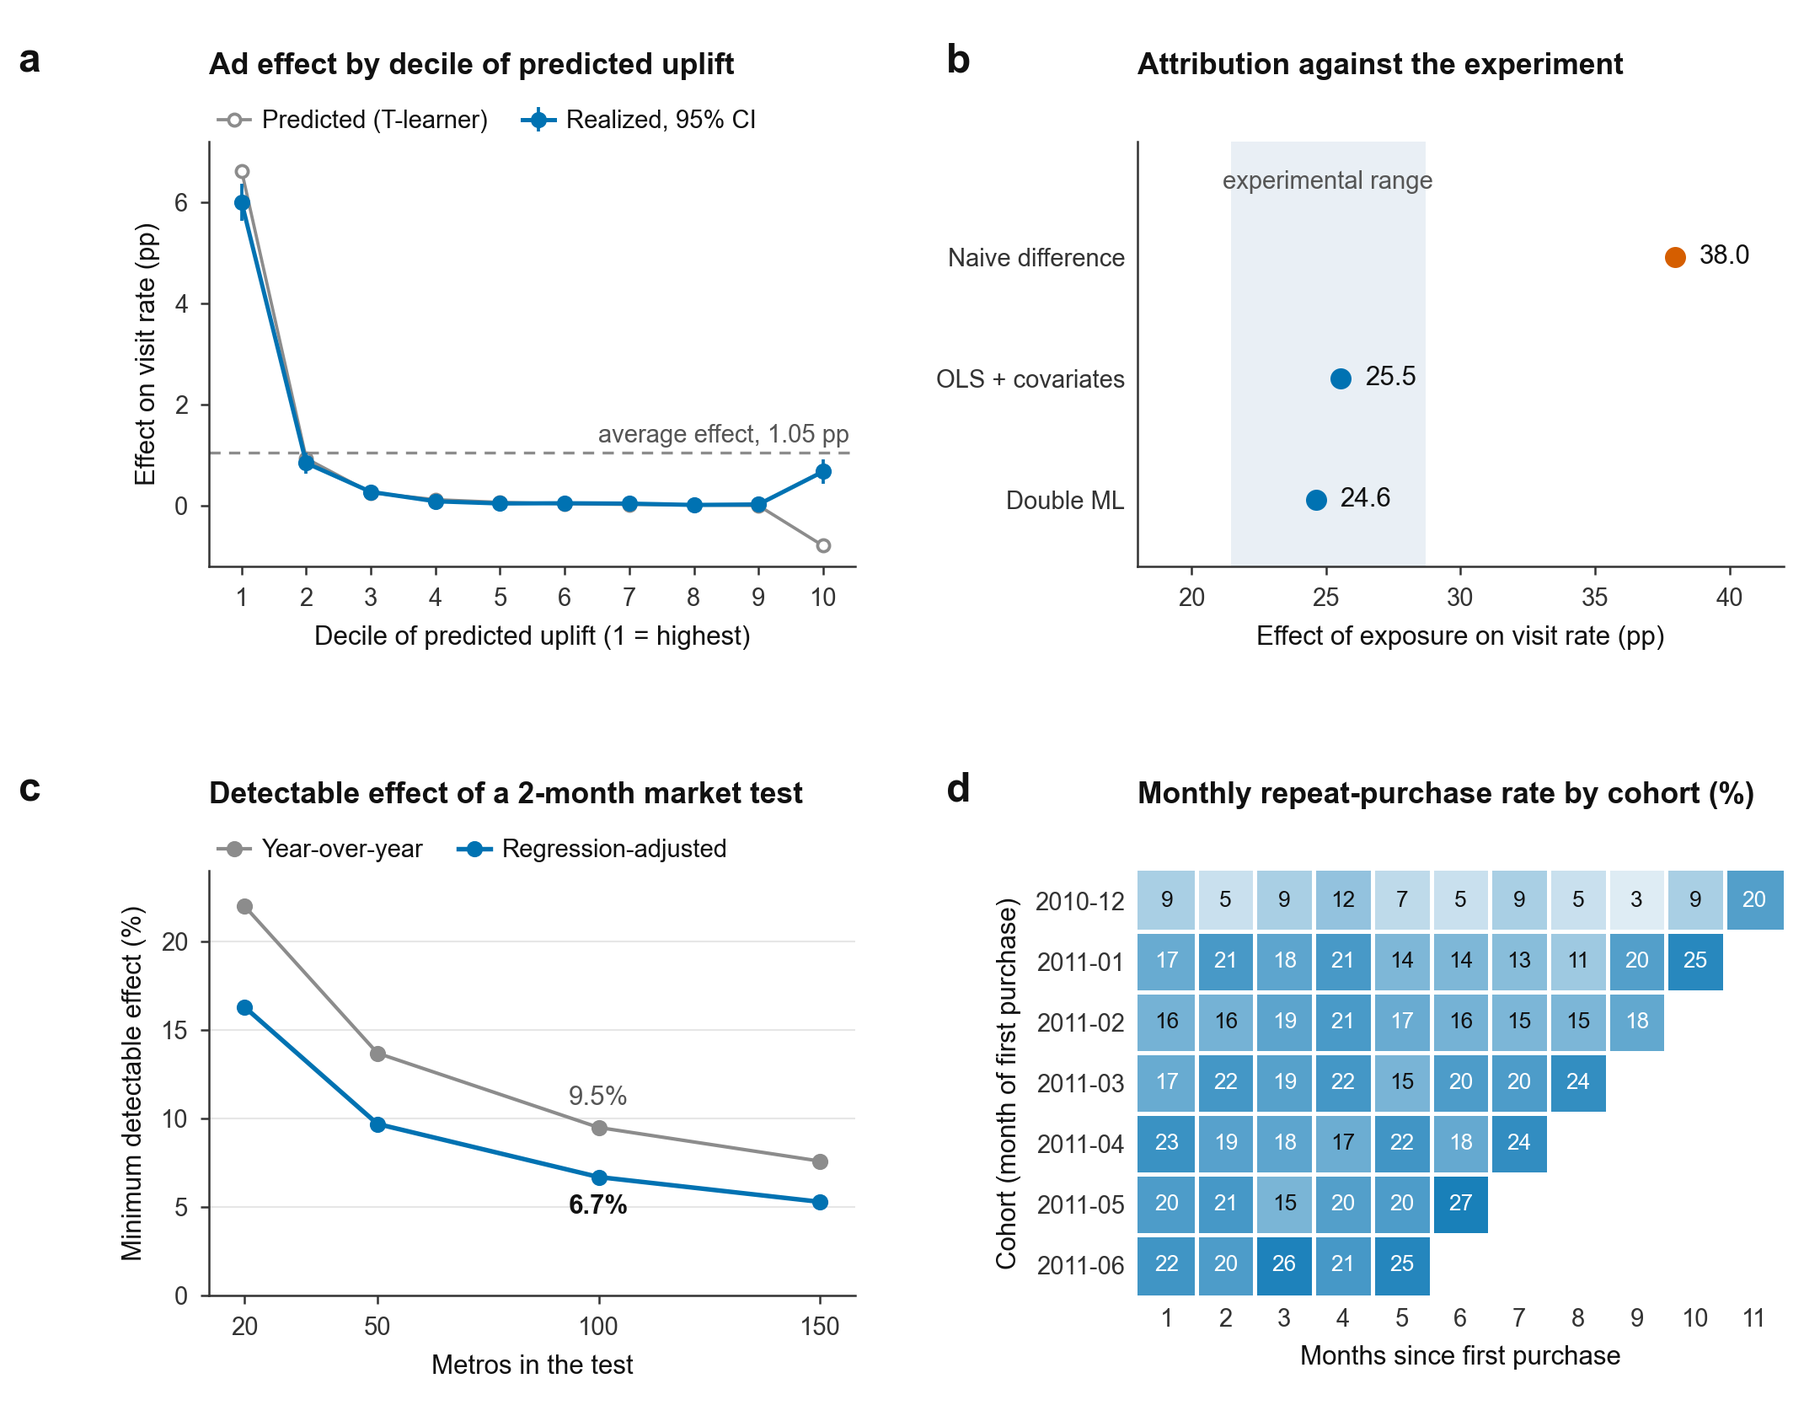
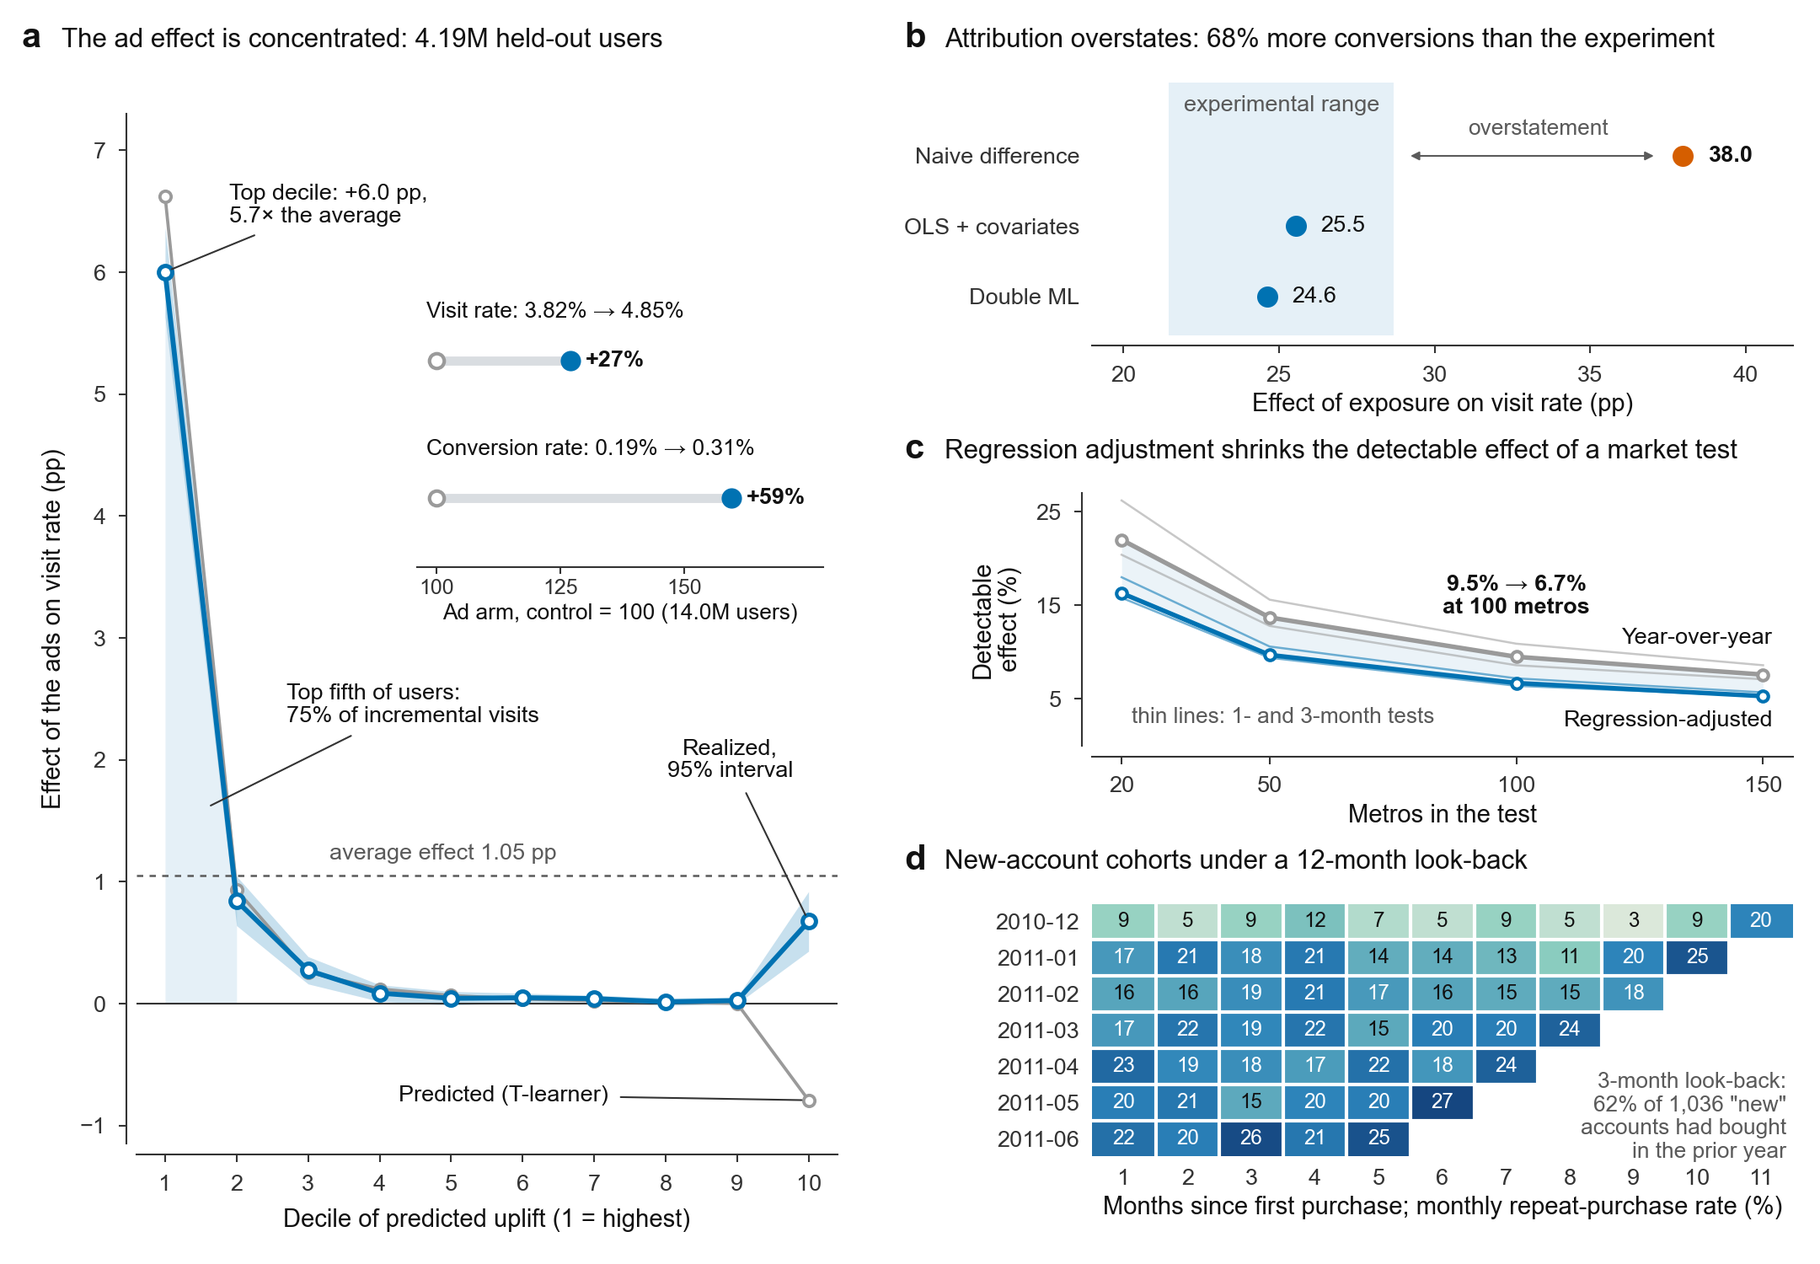
Figure 1: lead with the main result and annotate directly

diff --git a/figures/make_figure1.py b/figures/make_figure1.py
@@ -1,4 +1,4 @@
-"""Figure 1 of the README: one panel per study, drawn from the committed result files.
+"""Figure 1 of the README: the experiment readout with three supporting panels, drawn from the result files.
 
 Usage: python figures/make_figure1.py   (writes figures/figure1.png)
 """
@@ -13,11 +13,11 @@ import matplotlib.ticker
 from matplotlib.colors import LinearSegmentedColormap
 
 ROOT = Path(__file__).resolve().parents[1]
-T = dict(bg="#ffffff", ink="#111111", ink2="#555555", axis="#333333", grid="#e6e6e6", band="#e9eff5",
-         blue="#0072B2", red="#D55E00", green="#009E73", grey="#8c8c8c")
-FIGSIZE = (7.2, 5.6)
-X0, W, H = (0.115, 0.625), 0.355, 0.30          # two equal columns
-Y0 = (0.60, 0.085)                              # two equal rows
+INK, INK2, AXIS = "#111111", "#5a5a5a", "#333333"
+BLUE, RED, GREEN, GREY, SKY = "#0072B2", "#D55E00", "#009E73", "#9a9a9a", "#56B4E9"
+SEQ = LinearSegmentedColormap.from_list("seq", ["#f6f1e4", "#8fd0c0", "#2b83ba", "#0b2a66"])
+HERO = [0.075, 0.095, 0.385, 0.815]             # large left panel
+X0, W, H, ROWS = 0.60, 0.385, 0.20, (0.735, 0.41, 0.085)   # three stacked panels on the right
 
 
 def rows(path):
@@ -25,119 +25,152 @@ def rows(path):
         return list(csv.DictReader(f))
 
 
-def style(t):
+def style():
     plt.rcParams.update({
-        "font.family": ["Arial", "Helvetica Neue", "DejaVu Sans"], "font.size": 7.5, "axes.labelsize": 7.5,
-        "xtick.labelsize": 7, "ytick.labelsize": 7, "legend.fontsize": 7,
-        "figure.facecolor": t["bg"], "axes.facecolor": t["bg"], "savefig.facecolor": t["bg"],
-        "text.color": t["ink"], "axes.labelcolor": t["ink"], "axes.edgecolor": t["axis"],
-        "xtick.color": t["axis"], "ytick.color": t["axis"], "axes.linewidth": 0.6,
-        "xtick.major.width": 0.6, "ytick.major.width": 0.6, "xtick.major.size": 2.5, "ytick.major.size": 2.5,
-        "axes.spines.top": False, "axes.spines.right": False, "lines.linewidth": 1.2, "legend.frameon": False})
+        "font.family": ["Arial", "Helvetica Neue", "DejaVu Sans"], "font.size": 7, "axes.labelsize": 7,
+        "xtick.labelsize": 6.5, "ytick.labelsize": 6.5, "text.color": INK, "axes.labelcolor": INK,
+        "axes.edgecolor": AXIS, "xtick.color": AXIS, "ytick.color": AXIS, "axes.linewidth": 0.5,
+        "xtick.major.width": 0.5, "ytick.major.width": 0.5, "xtick.major.size": 2.2, "ytick.major.size": 2.2,
+        "xtick.minor.size": 1.2, "ytick.minor.size": 1.2, "xtick.minor.width": 0.4, "ytick.minor.width": 0.4,
+        "axes.spines.top": False, "axes.spines.right": False, "figure.facecolor": "white",
+        "savefig.facecolor": "white"})
 
 
-def grid(fig):
-    """Four axes of equal size on a 2 x 2 grid."""
-    return [fig.add_axes([x, y, W, H]) for y in Y0 for x in X0]
+def detach(ax):
+    """Axes drawn slightly away from the data, as in journal figures."""
+    for side in ("left", "bottom"):
+        ax.spines[side].set_position(("outward", 3))
 
 
-def panel(fig, ax, letter, title, legend_rows=1):
-    """Panel letter and bold title above the legend strip; the strip holds `legend_rows` rows in this figure row."""
+def letter(fig, ax, s, title, x=0.497):
     box = ax.get_position()
-    y = box.y1 + (7 + 10.5 * legend_rows) / 72 / fig.get_figheight()
-    fig.text(box.x0 - 0.105, y, letter, fontsize=11.5, fontweight="bold", va="bottom")
-    fig.text(box.x0, y, title, fontsize=8.5, fontweight="bold", va="bottom")
+    fig.text(x, box.y1 + 0.022, s, fontsize=10, fontweight="bold", va="bottom")
+    fig.text(x + 0.022, box.y1 + 0.0235, title, fontsize=7.5, va="bottom")
 
 
-def legend(ax, ncol, handles=None, labels=None):
-    """Legend in a strip between the title and the axes, clear of the data."""
-    args = (handles, labels) if handles is not None else ()
-    return ax.legend(*args, loc="lower left", bbox_to_anchor=(0, 1.0), ncol=ncol, borderaxespad=0.35, borderpad=0,
-                     handlelength=1.3, handletextpad=0.5, columnspacing=1.4, labelspacing=0.35)
+def leader(ax, xy, xytext, text, **kw):
+    ax.annotate(text, xy=xy, xytext=xytext, fontsize=6.5, va="center",
+                arrowprops=dict(arrowstyle="-", lw=0.5, color=AXIS, shrinkA=1.5, shrinkB=2), **kw)
 
 
 def load(rel):
     return json.loads((ROOT / rel).read_text())
 
 
-def draw(t):
-    fig = plt.figure(figsize=FIGSIZE, dpi=300)
-    a, b, c, d = grid(fig)
+def draw():
+    fig = plt.figure(figsize=(7.2, 5.0), dpi=300)
 
-    # a: realized uplift by decile of predicted uplift, held-out users
+    # ---- a: realized ad effect by decile of predicted uplift, held-out users
     tg = load("01_ad_incrementality/out/criteo/c_targeting.json")
+    inc = load("01_ad_incrementality/out/criteo/a_incrementality.json")
     cal, itt = tg["calibration_selected"], tg["test_overall_itt"]
+    a = fig.add_axes(HERO)
     x = [r["decile"] for r in cal]
-    a.axhline(100 * itt["est"], color=t["grey"], lw=0.8, ls=(0, (4, 3)))
-    a.text(10.4, 100 * itt["est"] + 0.2, f'average effect, {100 * itt["est"]:.2f} pp', ha="right", color=t["ink2"], fontsize=7)
-    a.errorbar(x, [100 * r["realized"] for r in cal], yerr=[196 * r["se"] for r in cal], color=t["blue"], lw=1.2,
-               marker="o", ms=3.6, capsize=0, elinewidth=0.9, label="Realized, 95% CI", zorder=3)
-    a.plot(x, [100 * r["predicted"] for r in cal], color=t["grey"], lw=0.9, marker="o", ms=3.4, mfc=t["bg"],
-           mew=0.9, label="Predicted (T-learner)", zorder=2)
-    a.set_xticks(x); a.set_xlim(0.5, 10.5); a.set_ylim(-1.2, 7.2)
-    a.set_xlabel("Decile of predicted uplift (1 = highest)"); a.set_ylabel("Effect on visit rate (pp)")
-    legend(a, 2)
-    panel(fig, a, "a", "Ad effect by decile of predicted uplift")
+    y = [100 * r["realized"] for r in cal]
+    se = [196 * r["se"] for r in cal]
+    a.axhline(0, color=AXIS, lw=0.5)
+    a.fill_between(x[:2], [0, 0], y[:2], color=BLUE, alpha=0.10, lw=0)
+    a.fill_between(x, [v - s for v, s in zip(y, se)], [v + s for v, s in zip(y, se)], color=BLUE, alpha=0.22, lw=0)
+    a.plot(x, [100 * r["predicted"] for r in cal], color=GREY, lw=0.9, marker="o", ms=3.2, mfc="white", mew=0.9)
+    a.plot(x, y, color=BLUE, lw=1.4, marker="o", ms=3.8, mfc="white", mew=1.2)
+    avg = 100 * itt["est"]
+    a.axhline(avg, color=INK2, lw=0.6, ls=(0, (3, 3)))
+    a.text(3.3, avg + 0.13, f"average effect {avg:.2f} pp", ha="left", fontsize=6.5, color=INK2)
+    leader(a, (1, y[0]), (1.9, y[0] + 0.55), f"Top decile: +{y[0]:.1f} pp,\n{y[0] / avg:.1f}× the average", linespacing=1.15)
+    leader(a, (1.55, 1.6), (2.7, 2.45),
+           f'Top fifth of users:\n{100 * tg["test"]["t_learner"]["share_incremental_top20"]:.0f}% of incremental visits',
+           linespacing=1.15)
+    leader(a, (10, 100 * cal[-1]["predicted"]), (7.2, -0.75), "Predicted (T-learner)", ha="right")
+    leader(a, (10, y[-1]), (8.9, 2.0), "Realized,\n95% interval", linespacing=1.15, ha="center")
+    a.set_xticks(x); a.set_xlim(0.6, 10.4); a.set_ylim(-1.15, 7.3)
+    a.set_xlabel("Decile of predicted uplift (1 = highest)"); a.set_ylabel("Effect of the ads on visit rate (pp)")
+    detach(a)
+    fig.text(0.012, 0.957, "a", fontsize=10, fontweight="bold", va="bottom")
+    fig.text(0.034, 0.9585, f'The ad effect is concentrated: {(itt["n1"] + itt["n0"]) / 1e6:.2f}M held-out users',
+             fontsize=7.5, va="bottom")
 
-    # b: per-exposed-user effect, observational estimators against the experimental range
-    at = load("02_attribution_metric_validation/out/attribution_vs_experiment.json")["per_exposed_user_visit_effect"]
-    lo, hi = 100 * at["cace_adjusted_study_01"], 100 * at["cace_unadjusted"]
-    b.axvspan(lo, hi, color=t["band"], lw=0)
-    b.text((lo + hi) / 2, 2.62, "experimental range", ha="center", va="center", color=t["ink2"], fontsize=7)
-    est = [("Naive difference", at["naive"], at["naive_se"], t["red"]),
-           ("OLS + covariates", at["ols_adjusted"], at["ols_se"], t["blue"]),
-           ("Double ML", at["dml"], at["dml_se"], t["blue"])]
-    for i, (name, v, se, col) in enumerate(est):
-        b.errorbar(100 * v, 2 - i, xerr=196 * se, color=col, marker="o", ms=5, capsize=0, elinewidth=1.0)
-        b.text(100 * v + 0.9, 2 - i, f"{100 * v:.1f}", va="center")
-    b.set_yticks([2, 1, 0], [e[0] for e in est]); b.set_ylim(-0.55, 2.95); b.set_xlim(18, 42)
-    b.tick_params(axis="y", length=0)
-    b.set_xlabel("Effect of exposure on visit rate (pp)")
-    panel(fig, b, "b", "Attribution against the experiment")
+    # inset: the experiment readout for all users, ad arm against control (control = 100)
+    ins = a.inset_axes([0.40, 0.56, 0.58, 0.30])
+    for i, (name, key) in enumerate((("Conversion rate", "conversion"), ("Visit rate", "visit"))):
+        c0, est = inc[key]["itt"]["control_mean"], inc[key]["itt"]["est"]
+        idx = 100 * (c0 + est) / c0
+        ins.plot([100, idx], [i, i], color="#d9dde1", lw=2.6, solid_capstyle="round", zorder=1)
+        ins.plot(100, i, marker="o", ms=4.2, mfc="white", mec=GREY, mew=1.0, zorder=2)
+        ins.plot(idx, i, marker="o", ms=4.8, color=BLUE, zorder=3)
+        ins.text(98, i + 0.36, f"{name}: {100 * c0:.2f}% → {100 * (c0 + est):.2f}%", fontsize=6.3, va="center")
+        ins.text(idx + 3, i, f"+{idx - 100:.0f}%", fontsize=6.5, va="center", fontweight="bold")
+    ins.set_xlim(96, 178); ins.set_ylim(-0.5, 1.75); ins.set_yticks([]); ins.set_xticks([100, 125, 150])
+    ins.set_xlabel(f'Ad arm, control = 100 ({inc["n"] / 1e6:.1f}M users)', fontsize=6.3, labelpad=1.5)
+    ins.tick_params(labelsize=6, length=1.8, pad=1.5); ins.spines["left"].set_visible(False); ins.set_facecolor("none")
 
-    # c: minimum detectable effect by design
-    series = {"CR: year-over-year difference": ("Year-over-year", t["grey"]),
-              "CR: ANCOVA (CUPED)": ("Regression-adjusted", t["blue"])}
-    mde = {k: {} for k in series}
+    b, c, d = (fig.add_axes([X0, yy, W, H]) for yy in ROWS)
+
+    # ---- b: effect of exposure, observational estimators against the experimental range
+    at = load("02_attribution_metric_validation/out/attribution_vs_experiment.json")
+    pe = at["per_exposed_user_visit_effect"]
+    lo, hi = 100 * pe["cace_adjusted_study_01"], 100 * pe["cace_unadjusted"]
+    b.axvspan(lo, hi, color=BLUE, alpha=0.10, lw=0)
+    b.text((lo + hi) / 2, 2.72, "experimental range", ha="center", va="center", fontsize=6.5, color=INK2)
+    est = [("Naive difference", pe["naive"], RED), ("OLS + covariates", pe["ols_adjusted"], BLUE),
+           ("Double ML", pe["dml"], BLUE)]
+    for i, (name, v, col) in enumerate(est):
+        b.plot(100 * v, 2 - i, marker="o", ms=5, color=col)
+        b.text(100 * v + 0.8, 2 - i, f"{100 * v:.1f}", va="center", fontsize=6.5, fontweight="bold" if i == 0 else "normal")
+    b.annotate("", xy=(hi + 0.3, 2), xytext=(100 * pe["naive"] - 0.7, 2),
+               arrowprops=dict(arrowstyle="<|-|>", lw=0.5, color=INK2, mutation_scale=5))
+    b.text((hi + 100 * pe["naive"]) / 2, 2.3, "overstatement", ha="center", fontsize=6.3, color=INK2)
+    b.set_yticks([2, 1, 0], [e[0] for e in est]); b.tick_params(axis="y", length=0)
+    b.set_ylim(-0.55, 3.05); b.set_xlim(19, 41.5); b.set_xticks([20, 25, 30, 35, 40])
+    b.set_xlabel("Effect of exposure on visit rate (pp)", labelpad=2)
+    b.spines["left"].set_visible(False); b.spines["bottom"].set_position(("outward", 3))
+    over = 100 * (at["conversion"]["attributed_over_incremental"] - 1)
+    letter(fig, b, "b", f"Attribution overstates: {over:.0f}% more conversions than the experiment")
+
+    # ---- c: minimum detectable effect by design and test length
+    keys = {"CR: year-over-year difference": ("Year-over-year", GREY), "CR: ANCOVA (CUPED)": ("Regression-adjusted", BLUE)}
+    mde = {(k, m): {} for k in keys for m in (1, 2, 3)}
     for r in rows(ROOT / "03_geo_experiment_design/out/design_summary.csv"):
-        if r["test_months"] == "2" and r["estimator"] in mde:
-            mde[r["estimator"]][int(r["metros"])] = float(r["mde_80_pct"])
-    for k, (name, col) in series.items():
-        xs = sorted(mde[k])
-        c.plot(xs, [mde[k][m] for m in xs], color=col, marker="o", ms=3.6, lw=1.3 if "CUPED" in k else 1.0, label=name)
-    yo, ad = mde["CR: year-over-year difference"][100], mde["CR: ANCOVA (CUPED)"][100]
-    c.text(100, yo + 1.0, f"{yo:.1f}%", ha="center", va="bottom", color=t["ink2"])
-    c.text(100, ad - 1.0, f"{ad:.1f}%", ha="center", va="top", fontweight="bold")
-    c.set_xticks([20, 50, 100, 150]); c.set_xlim(12, 158); c.set_ylim(0, 24)
-    c.set_xlabel("Metros in the test"); c.set_ylabel("Minimum detectable effect (%)")
-    c.yaxis.grid(True, color=t["grid"], lw=0.5); c.set_axisbelow(True)
-    legend(c, 2)
-    panel(fig, c, "c", "Detectable effect of a 2-month market test")
+        if r["estimator"] in keys:
+            mde[(r["estimator"], int(r["test_months"]))][int(r["metros"])] = float(r["mde_80_pct"])
+    xs = [20, 50, 100, 150]
+    yo, ad = mde[("CR: year-over-year difference", 2)], mde[("CR: ANCOVA (CUPED)", 2)]
+    c.fill_between(xs, [ad[m] for m in xs], [yo[m] for m in xs], color=BLUE, alpha=0.08, lw=0)
+    for k, (name, col) in keys.items():
+        for months in (1, 3):
+            c.plot(xs, [mde[(k, months)][m] for m in xs], color=col, lw=0.6, alpha=0.55)
+        c.plot(xs, [mde[(k, 2)][m] for m in xs], color=col, lw=1.3, marker="o", ms=3, mfc="white", mew=1.0)
+        c.text(152, mde[(k, 2)][150] + (3.9 if col == GREY else -2.6), name, fontsize=6.5, va="center", ha="right")
+    c.text(100, yo[100] + 4.6, f"{yo[100]:.1f}% → {ad[100]:.1f}%\nat 100 metros", fontsize=6.5, fontweight="bold", ha="center", linespacing=1.15)
+    c.text(22, 2.4, "thin lines: 1- and 3-month tests", fontsize=6.3, color=INK2)
+    c.set_xticks(xs); c.set_xlim(14, 156); c.set_ylim(0, 27); c.set_yticks([5, 15, 25])
+    c.set_xlabel("Metros in the test", labelpad=2); c.set_ylabel("Detectable\neffect (%)")
+    detach(c); letter(fig, c, "c", "Regression adjustment shrinks the detectable effect of a market test")
 
-    # d: monthly repeat-purchase rate of new-account cohorts
-    co = load("04_customer_metrics_retention/out/12_ltv_segments.json")["cohorts_new_accounts"]
+    # ---- d: monthly repeat-purchase rate of new-account cohorts
+    co = load("04_customer_metrics_retention/out/12_ltv_segments.json")
+    burn, co = co["burnin3_contamination"], co["cohorts_new_accounts"]
     cohorts, months = sorted(co["repeat_rate"]), list(range(1, 12))
     data = [[float("nan") if co["repeat_rate"][k].get(str(m)) is None else 100 * co["repeat_rate"][k][str(m)]
              for m in months] for k in cohorts]
-    cmap = LinearSegmentedColormap.from_list("seq", ["#f4f8fb", t["blue"]]); cmap.set_bad(t["bg"])
+    cmap = SEQ.copy(); cmap.set_bad("white")
     d.imshow(data, cmap=cmap, vmin=0, vmax=30, aspect="auto")
     for i, row in enumerate(data):
         for j, v in enumerate(row):
             if v == v:
-                d.text(j, i, f"{v:.0f}", ha="center", va="center", fontsize=6.3, color=(t["bg"] if v > 17 else t["ink"]))
-    d.set_xticks(range(len(months)), months); d.set_yticks(range(len(cohorts)), cohorts)
-    d.tick_params(length=0)
+                d.text(j, i, f"{v:.0f}", ha="center", va="center", fontsize=5.8, color="white" if v > 16 else INK)
+    d.set_xticks(range(len(months)), months); d.set_yticks(range(len(cohorts)), cohorts); d.tick_params(length=0)
     for s in d.spines.values():
         s.set_visible(False)
-    d.set_xticks([x - 0.5 for x in range(1, len(months))], minor=True)
-    d.set_yticks([y - 0.5 for y in range(1, len(cohorts))], minor=True)
-    d.grid(which="minor", color=t["bg"], lw=1.2); d.tick_params(which="minor", length=0)
-    d.set_xlabel("Months since first purchase"); d.set_ylabel("Cohort (month of first purchase)")
-    panel(fig, d, "d", "Monthly repeat-purchase rate by cohort (%)")
+    d.set_xticks([v - 0.5 for v in range(1, len(months))], minor=True)
+    d.set_yticks([v - 0.5 for v in range(1, len(cohorts))], minor=True)
+    d.grid(which="minor", color="white", lw=1.0); d.tick_params(which="minor", length=0)
+    d.set_xlabel("Months since first purchase; monthly repeat-purchase rate (%)", labelpad=2)
+    d.text(10.4, 5.4, f'3-month look-back:\n{100 * burn["share"]:.0f}% of {burn["apparent_new"]:,} "new"\naccounts had bought\nin the prior year',
+           ha="right", va="center", fontsize=6.3, linespacing=1.2, color=INK2)
+    letter(fig, d, "d", "New-account cohorts under a 12-month look-back")
     return fig
 
 
 if __name__ == "__main__":
-    style(T)
-    fig = draw(T)
-    fig.savefig(Path(__file__).parent / "figure1.png", dpi=300)
+    style()
+    draw().savefig(Path(__file__).parent / "figure1.png", dpi=300)

diff --git a/README.md b/README.md
@@ -2,9 +2,9 @@
 
 [![tests](https://github.com/lyz44git/ad-measurement-and-metrics/actions/workflows/tests.yml/badge.svg)](https://github.com/lyz44git/ad-measurement-and-metrics/actions/workflows/tests.yml)
 
-<img src="figures/figure1.png" alt="Four-panel figure: ad effect by decile of predicted uplift; observational estimators against the experimental benchmark; minimum detectable effect by number of metros; cohort repeat-purchase rates." width="100%">
+<img src="figures/figure1.png" alt="Four-panel figure: ad effect by decile of predicted uplift with the experiment readout inset; observational estimators against the experimental range; minimum detectable effect of market tests; cohort repeat-purchase rates." width="100%">
 
-**Figure 1 | Headline results of studies 01–04.** **a**, Effect of the ads on the visit rate by decile of predicted uplift among 4.19M held-out users: realized effect with 95% CI (filled), T-learner prediction (open) and the average effect (dashed). **b**, Effect of exposure on the visit rate from three observational estimators against the range of the experimental benchmark (shaded); exposure-based attribution credited 68% more conversions than the experiment found incremental. **c**, Smallest effect detectable with 80% power in a 2-month market-level test, from 5,000 placebo tests per design on 151 U.S. metros. **d**, Monthly repeat-purchase rate of new-account cohorts under a 12-month look-back; a 3-month look-back would have labelled 1,036 accounts new, 62% of which had bought in the prior year. Drawn by [`figures/make_figure1.py`](figures/make_figure1.py) from the result files in each study folder.
+**Figure 1 | Headline results of studies 01–04.** **a**, Effect of the ads on the visit rate by decile of predicted uplift among 4.19M held-out users: realized effect with its 95% interval (blue), T-learner prediction (grey) and the average effect (dashed); the top fifth of users accounts for 75% of incremental visits. Inset: visit and conversion rates in the ad arm relative to control for all 14.0M users. **b**, Effect of exposure on the visit rate from three observational estimators against the range of the experimental benchmark (shaded); exposure-based attribution credited 68% more conversions than the experiment found incremental. **c**, Smallest effect detectable with 80% power in a market-level test, from 5,000 placebo tests per design on 151 U.S. metros (thick lines, 2-month tests; thin lines, 1- and 3-month tests). **d**, Monthly repeat-purchase rate of new-account cohorts under a 12-month look-back. Drawn by [`figures/make_figure1.py`](figures/make_figure1.py) from the result files in each study folder.
 
 Analyses of public advertising and e-commerce data: an experiment readout, validation of an attribution metric,
 power analysis for market-level tests, customer retention metrics, multi-touch attribution, marketing mix models,
